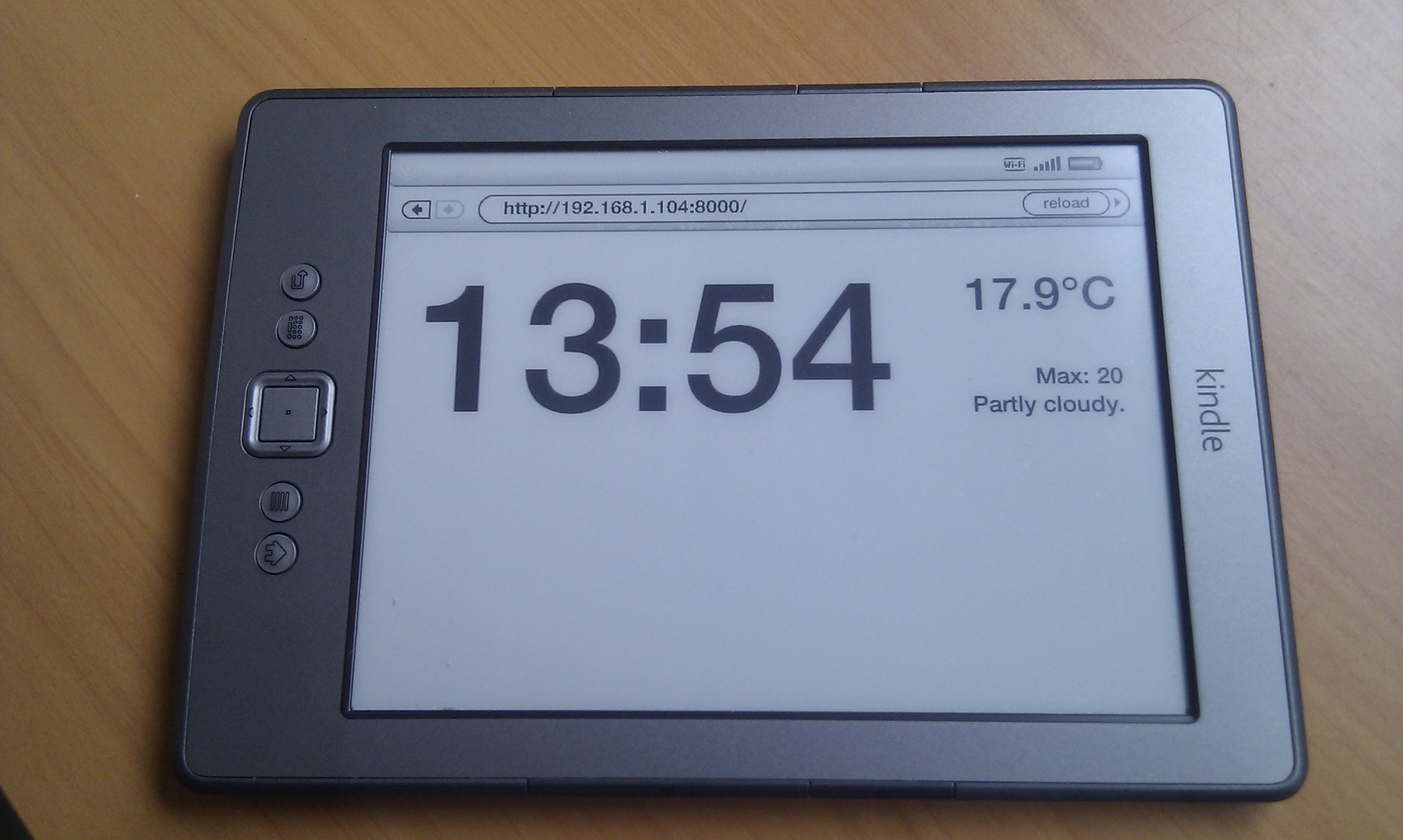
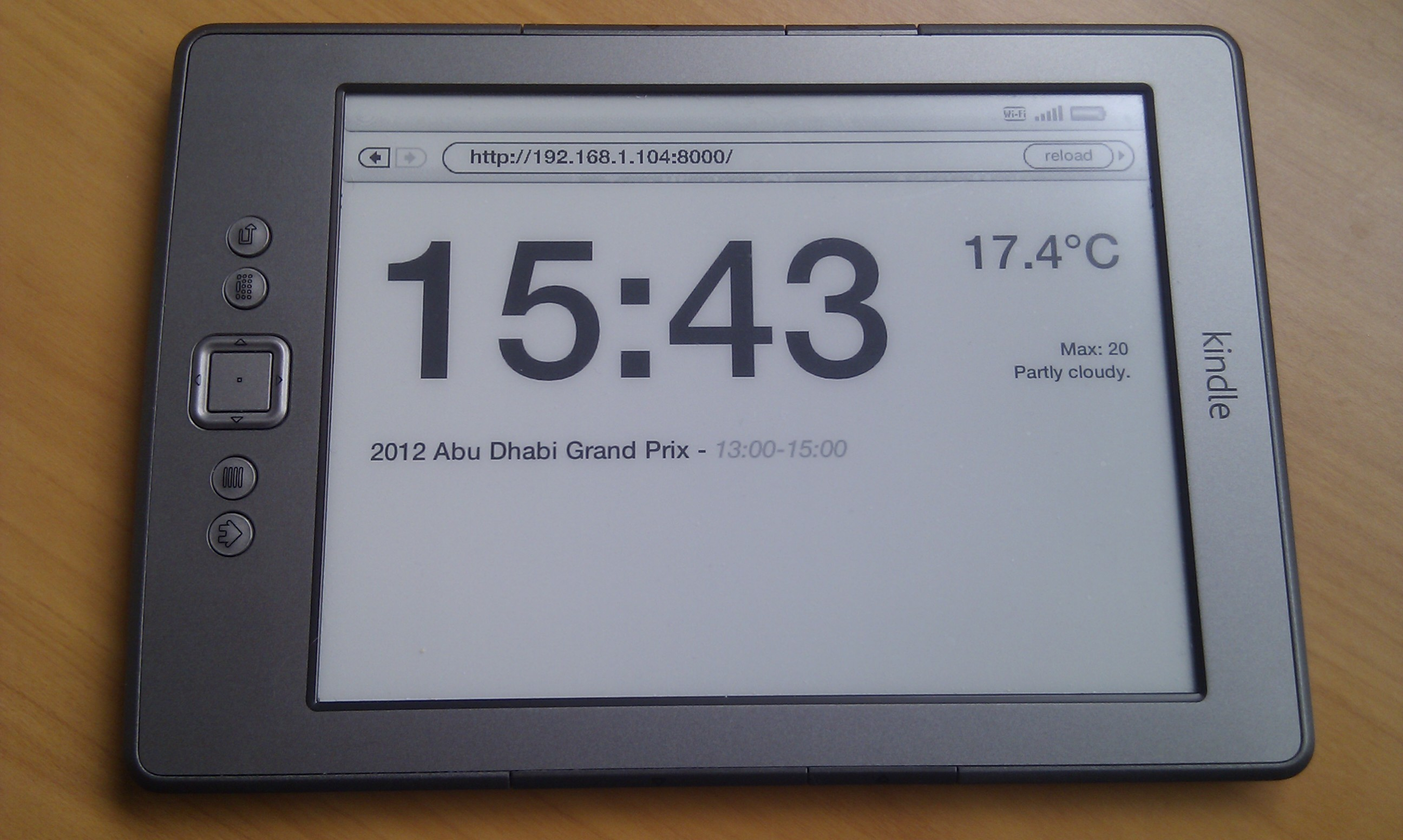
Added Google Calendar agenda for current day, tidied up server.
Uses RFC3339 date library from: http://henry.precheur.org/projects/rfc3339. server/calxmlurl.txt is not committed, but contains a Google Calendar URL - see https://developers.google.com/google-apps/calendar/v2/reference for some pointers. The one I used in the screenshot is https://www.google.com/calendar/feeds/hendnaic1pa2r3oj8b87m08afg%40group.calendar.google.com/public/basic?orderby=starttime&sortorder=ascending&singleevents=true

diff --git a/server/dashboard.html b/server/dashboard.html
@@ -37,6 +37,14 @@
                 text-align:right;
                 padding-bottom:45px;
             }
+            #agenda{
+                font-size:24px;
+                padding-left:35px;
+                vertical-align:top;
+            }
+            #agenda em{
+                color:grey;
+            }
         </style>
         <script>
             function clock()
@@ -77,6 +85,10 @@
                     %(FORECAST)s
                 </td>
             </tr>
+            <tr>
+                <td id="agenda">
+                    %(AGENDA)s
+                </td>
         </table>
     </body>
 </html>

diff --git a/server/rfc3339.py b/server/rfc3339.py
@@ -1,0 +1,283 @@
+#!/usr/bin/env python
+#
+# Copyright (c) 2009, 2010, Henry Precheur <henry@precheur.org>
+#
+# Permission to use, copy, modify, and/or distribute this software for any
+# purpose with or without fee is hereby granted, provided that the above
+# copyright notice and this permission notice appear in all copies.
+#
+# THE SOFTWARE IS PROVIDED "AS IS" AND THE AUTHOR DISCLAIMS ALL WARRANTIES WITH
+# REGARD TO THIS SOFTWARE INCLUDING ALL IMPLIED WARRANTIES OF MERCHANTABILITY AND
+# FITNESS. IN NO EVENT SHALL THE AUTHOR BE LIABLE FOR ANY SPECIAL, DIRECT,
+# INDIRECT, OR CONSEQUENTIAL DAMAGES OR ANY DAMAGES WHATSOEVER RESULTING FROM
+# LOSS OF USE, DATA OR PROFITS, WHETHER IN AN ACTION OF CONTRACT, NEGLIGENCE OR
+# OTHER TORTIOUS ACTION, ARISING OUT OF OR IN CONNECTION WITH THE USE OR
+# PERFORMANCE OF THIS SOFTWARE.
+#
+'''Formats dates according to the :RFC:`3339`.
+
+Report bugs & problems on BitBucket_
+
+.. _BitBucket: https://bitbucket.org/henry/clan.cx/issues
+'''
+
+__author__ = 'Henry Precheur <henry@precheur.org>'
+__license__ = 'ISCL'
+__version__ = '5.1'
+__all__ = ('rfc3339', )
+
+import datetime
+import time
+import unittest
+
+def _timezone(utc_offset):
+    '''
+    Return a string representing the timezone offset.
+
+    >>> _timezone(0)
+    '+00:00'
+    >>> _timezone(3600)
+    '+01:00'
+    >>> _timezone(-28800)
+    '-08:00'
+    >>> _timezone(-1800)
+    '-00:30'
+    '''
+    # Python's division uses floor(), not round() like in other languages:
+    #   -1 / 2 == -1 and not -1 / 2 == 0
+    # That's why we use abs(utc_offset).
+    hours = abs(utc_offset) // 3600
+    minutes = abs(utc_offset) % 3600 // 60
+    sign = (utc_offset < 0 and '-') or '+'
+    return '%c%02d:%02d' % (sign, hours, minutes)
+
+def _timedelta_to_seconds(timedelta):
+    '''
+    >>> _timedelta_to_seconds(datetime.timedelta(hours=3))
+    10800
+    >>> _timedelta_to_seconds(datetime.timedelta(hours=3, minutes=15))
+    11700
+    '''
+    return (timedelta.days * 86400 + timedelta.seconds +
+            timedelta.microseconds // 1000)
+
+def _utc_offset(date, use_system_timezone):
+    '''
+    Return the UTC offset of `date`. If `date` does not have any `tzinfo`, use
+    the timezone informations stored locally on the system.
+
+    >>> if time.localtime().tm_isdst:
+    ...     system_timezone = -time.altzone
+    ... else:
+    ...     system_timezone = -time.timezone
+    >>> _utc_offset(datetime.datetime.now(), True) == system_timezone
+    True
+    >>> _utc_offset(datetime.datetime.now(), False)
+    0
+    '''
+    if isinstance(date, datetime.datetime) and date.tzinfo is not None:
+        return _timedelta_to_seconds(date.dst() or date.utcoffset())
+    elif use_system_timezone:
+        if date.year < 1970:
+            # We use 1972 because 1970 doesn't have a leap day (feb 29)
+            t = time.mktime(date.replace(year=1972).timetuple())
+        else:
+            t = time.mktime(date.timetuple())
+        if time.localtime(t).tm_isdst: # pragma: no cover
+            return -time.altzone
+        else:
+            return -time.timezone
+    else:
+        return 0
+
+def _string(d, timezone):
+    return ('%04d-%02d-%02dT%02d:%02d:%02d%s' %
+            (d.year, d.month, d.day, d.hour, d.minute, d.second, timezone))
+
+def rfc3339(date, utc=False, use_system_timezone=True):
+    '''
+    Return a string formatted according to the :RFC:`3339`. If called with
+    `utc=True`, it normalizes `date` to the UTC date. If `date` does not have
+    any timezone information, uses the local timezone::
+
+        >>> d = datetime.datetime(2008, 4, 2, 20)
+        >>> rfc3339(d, utc=True, use_system_timezone=False)
+        '2008-04-02T20:00:00Z'
+        >>> rfc3339(d) # doctest: +ELLIPSIS
+        '2008-04-02T20:00:00...'
+
+    If called with `user_system_timezone=False` don't use the local timezone if
+    `date` does not have timezone informations and consider the offset to UTC
+    to be zero::
+
+        >>> rfc3339(d, use_system_timezone=False)
+        '2008-04-02T20:00:00+00:00'
+
+    `date` must be a `datetime.datetime`, `datetime.date` or a timestamp as
+    returned by `time.time()`::
+
+        >>> rfc3339(0, utc=True, use_system_timezone=False)
+        '1970-01-01T00:00:00Z'
+        >>> rfc3339(datetime.date(2008, 9, 6), utc=True,
+        ...         use_system_timezone=False)
+        '2008-09-06T00:00:00Z'
+        >>> rfc3339(datetime.date(2008, 9, 6),
+        ...         use_system_timezone=False)
+        '2008-09-06T00:00:00+00:00'
+        >>> rfc3339('foo bar')
+        Traceback (most recent call last):
+        ...
+        TypeError: Expected timestamp or date object. Got <type 'str'>.
+
+    For dates before January 1st 1970, the timezones will be the ones used in
+    1970. It might not be accurate, but on most sytem there is no timezone
+    information before 1970.
+    '''
+    # Try to convert timestamp to datetime
+    try:
+        if use_system_timezone:
+            date = datetime.datetime.fromtimestamp(date)
+        else:
+            date = datetime.datetime.utcfromtimestamp(date)
+    except TypeError:
+        pass
+
+    if not isinstance(date, datetime.date):
+        raise TypeError('Expected timestamp or date object. Got %r.' %
+                        type(date))
+
+    if not isinstance(date, datetime.datetime):
+        date = datetime.datetime(*date.timetuple()[:3])
+    utc_offset = _utc_offset(date, use_system_timezone)
+    if utc:
+        return _string(date + datetime.timedelta(seconds=utc_offset), 'Z')
+    else:
+        return _string(date, _timezone(utc_offset))
+
+
+class LocalTimeTestCase(unittest.TestCase):
+    '''
+    Test the use of the timezone saved locally. Since it is hard to test using
+    doctest.
+    '''
+
+    def setUp(self):
+        local_utcoffset = _utc_offset(datetime.datetime.now(), True)
+        self.local_utcoffset = datetime.timedelta(seconds=local_utcoffset)
+        self.local_timezone = _timezone(local_utcoffset)
+
+    def test_datetime(self):
+        d = datetime.datetime.now()
+        self.assertEqual(rfc3339(d),
+                         d.strftime('%Y-%m-%dT%H:%M:%S') + self.local_timezone)
+
+    def test_datetime_timezone(self):
+
+        class FixedNoDst(datetime.tzinfo):
+            'A timezone info with fixed offset, not DST'
+
+            def utcoffset(self, dt):
+                return datetime.timedelta(hours=2, minutes=30)
+
+            def dst(self, dt):
+                return None
+
+        fixed_no_dst = FixedNoDst()
+
+        class Fixed(FixedNoDst):
+            'A timezone info with DST'
+
+            def dst(self, dt):
+                return datetime.timedelta(hours=3, minutes=15)
+
+        fixed = Fixed()
+
+        d = datetime.datetime.now().replace(tzinfo=fixed_no_dst)
+        timezone = _timezone(_timedelta_to_seconds(fixed_no_dst.\
+                                                   utcoffset(None)))
+        self.assertEqual(rfc3339(d),
+                         d.strftime('%Y-%m-%dT%H:%M:%S') + timezone)
+
+        d = datetime.datetime.now().replace(tzinfo=fixed)
+        timezone = _timezone(_timedelta_to_seconds(fixed.dst(None)))
+        self.assertEqual(rfc3339(d),
+                         d.strftime('%Y-%m-%dT%H:%M:%S') + timezone)
+
+    def test_datetime_utc(self):
+        d = datetime.datetime.now()
+        d_utc = d + self.local_utcoffset
+        self.assertEqual(rfc3339(d, utc=True),
+                         d_utc.strftime('%Y-%m-%dT%H:%M:%SZ'))
+
+    def test_date(self):
+        d = datetime.date.today()
+        self.assertEqual(rfc3339(d),
+                         d.strftime('%Y-%m-%dT%H:%M:%S') + self.local_timezone)
+
+    def test_date_utc(self):
+        d = datetime.date.today()
+        # Convert `date` to `datetime`, since `date` ignores seconds and hours
+        # in timedeltas:
+        # >>> datetime.date(2008, 9, 7) + datetime.timedelta(hours=23)
+        # datetime.date(2008, 9, 7)
+        d_utc = datetime.datetime(*d.timetuple()[:3]) + self.local_utcoffset
+        self.assertEqual(rfc3339(d, utc=True),
+                         d_utc.strftime('%Y-%m-%dT%H:%M:%SZ'))
+
+    def test_timestamp(self):
+        d = time.time()
+        self.assertEqual(rfc3339(d),
+                         datetime.datetime.fromtimestamp(d).\
+                         strftime('%Y-%m-%dT%H:%M:%S') + self.local_timezone)
+
+    def test_timestamp_utc(self):
+        d = time.time()
+        d_utc = datetime.datetime.utcfromtimestamp(d) + self.local_utcoffset
+        self.assertEqual(rfc3339(d),
+                         (d_utc.strftime('%Y-%m-%dT%H:%M:%S') +
+                          self.local_timezone))
+
+    def test_before_1970(self):
+        d = datetime.date(1885, 01, 04)
+        self.failUnless(rfc3339(d).startswith('1885-01-04T00:00:00'))
+        self.assertEqual(rfc3339(d, utc=True, use_system_timezone=False),
+                         '1885-01-04T00:00:00Z')
+
+    def test_1920(self):
+        d = datetime.date(1920, 02, 29)
+        x = rfc3339(d, utc=False, use_system_timezone=True)
+        self.failUnless(x.startswith('1920-02-29T00:00:00'))
+
+    # If these tests start failing it probably means there was a policy change
+    # for the Pacific time zone.
+    # See http://en.wikipedia.org/wiki/Pacific_Time_Zone.
+    if 'PST' in time.tzname:
+        def testPDTChange(self):
+            '''Test Daylight saving change'''
+            # PDT switch happens at 2AM on March 14, 2010
+
+            # 1:59AM PST
+            self.assertEqual(rfc3339(datetime.datetime(2010, 3, 14, 1, 59)),
+                             '2010-03-14T01:59:00-08:00')
+            # 3AM PDT
+            self.assertEqual(rfc3339(datetime.datetime(2010, 3, 14, 3, 0)),
+                             '2010-03-14T03:00:00-07:00')
+
+        def testPSTChange(self):
+            '''Test Standard time change'''
+            # PST switch happens at 2AM on November 6, 2010
+
+            # 0:59AM PDT
+            self.assertEqual(rfc3339(datetime.datetime(2010, 11, 7, 0, 59)),
+                             '2010-11-07T00:59:00-07:00')
+
+            # 1:00AM PST
+            # There's no way to have 1:00AM PST without a proper tzinfo
+            self.assertEqual(rfc3339(datetime.datetime(2010, 11, 7, 1, 0)),
+                             '2010-11-07T01:00:00-07:00')
+
+
+if __name__ == '__main__': # pragma: no cover
+    import doctest
+    doctest.testmod()
+    unittest.main()

diff --git a/server/sources.py b/server/sources.py
@@ -1,4 +1,44 @@
+import datetime
+import re
+import rfc3339
 import urllib
+import xml.dom.minidom
+
+
+def agenda():
+    try:
+        results = ""
+        URL = open("calxmlurl.txt").read()
+        start = datetime.datetime.now()
+        start = start.replace(hour=0, minute=0, second=0)
+        end = datetime.datetime.now()
+        end = end.replace(hour=23, minute=59, second=59)
+        URL += "&" + urllib.urlencode({"start-min":
+                                       rfc3339.rfc3339(start,
+                                                       use_system_timezone=False)});
+        URL += "&" + urllib.urlencode({"start-max":
+                                       rfc3339.rfc3339(end,
+                                                       use_system_timezone=False)});
+        dom = xml.dom.minidom.parse(urllib.urlopen(URL))
+        added = 0
+        for e in dom.getElementsByTagName("entry"):
+            added += 1
+            if added > 5:
+                results += "..."
+                break
+            event = e.getElementsByTagName("title")[0].lastChild.toxml().encode('ascii','ignore')
+            times = e.getElementsByTagName("summary")[0].lastChild.toxml().encode('ascii','ignore').split("\n")[0]
+            times = re.findall(r'.*?([0-9]{2}:[0-9]{2}).*?', times)
+            time = "All day"
+            if len(times) == 1:
+                time = times[0]
+            elif len(times) == 2:
+                time = times[0] + "-" + times[1]
+            results += event + " - <em>" + time + "</em> " + "<br />"
+        return results
+    except:
+        pass
+    return "???"
 
 
 def forecast():

diff --git a/server/server.py b/server/server.py
@@ -5,7 +5,8 @@ import sources
 # Settings
 PORT_NUMBER = 8000
 SOURCES = {"TEMPERATURE": sources.temperature,
-           "FORECAST": sources.forecast}
+           "FORECAST": sources.forecast,
+           "AGENDA": sources.agenda}
 
 
 class MyHandler(BaseHTTPServer.BaseHTTPRequestHandler):
@@ -23,20 +24,21 @@ class MyHandler(BaseHTTPServer.BaseHTTPRequestHandler):
         filename = s.path[1:]
         if filename == "":
             filename = "dashboard.html"
-        try:
-            with open(filename) as f:
-                if filename == "dashboard.html":
-                    template =  f.read()
-                    tempdict = {}
-                    for k,func in SOURCES.items():
-                        tempdict[k] = func()
-                    statichtml = template % tempdict
-                    s.wfile.write(statichtml)
-                else:
-                    s.wfile.write(f.read())
-        except:
-            pass
+        if filename == "favicon.ico":
+            return
+        with open(filename) as f:
+            if filename == "dashboard.html":
+                template =  f.read()
+                tempdict = {}
+                for k,func in SOURCES.items():
+                    tempdict[k] = func()
+                statichtml = template % tempdict
+                s.wfile.write(statichtml)
+            else:
+                s.wfile.write(f.read())
 
+    def log_message(self, format, *args):
+        return
 
 if __name__ == '__main__':
     httpd = BaseHTTPServer.HTTPServer(("", PORT_NUMBER), MyHandler)
